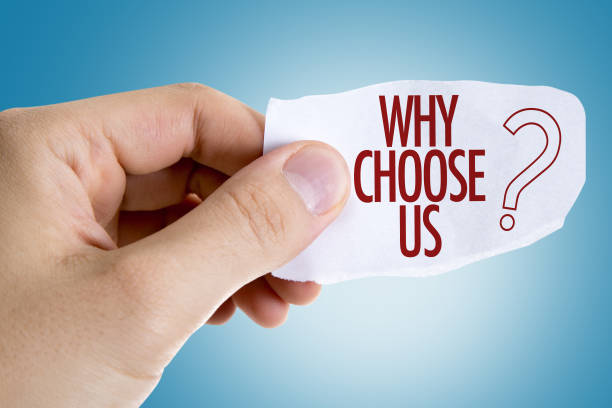
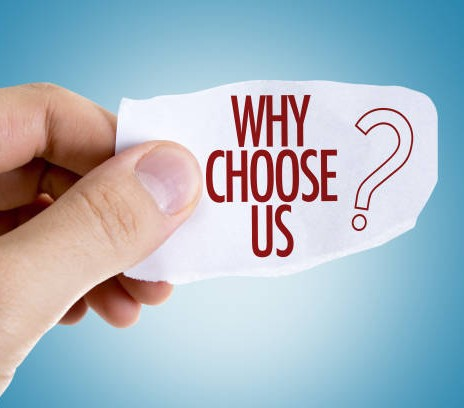
update file

diff --git a/src/pages-Services/AI-Development.tsx b/src/pages-Services/AI-Development.tsx
@@ -133,12 +133,12 @@ const AIDevelopment: React.FC = () => {
 										<span className="text-slate-900">AI Development</span>
 									</h2>
 								</div>
-								<p className="text-sm md:text-[15px] text-slate-500 max-w-xl font-normal leading-relaxed">
+								<p className="text-base md:text-[17px] text-slate-700 max-w-xl font-medium leading-relaxed">
 									Unlock the full potential of artificial intelligence to transform your business operations, enhance customer experiences, and drive innovation across all industries.
 								</p>
 							</div>
 
-							<div className="space-y-4 text-slate-600 text-[15px] leading-relaxed text-left border-l-2 border-slate-100 pl-5">
+							<div className="space-y-4 text-slate-800 text-base md:text-[17px] leading-relaxed text-left border-l-4 border-[#B6FF00] pl-6 font-medium">
 								<p>
 									Our AI specialists design and deploy custom machine learning models, intelligent automation systems, and data-driven solutions that seamlessly integrate with your existing infrastructure and workflows.
 								</p>
@@ -163,27 +163,41 @@ const AIDevelopment: React.FC = () => {
 						</div>
 
 						{/* Right: AI Image */}
-						<div className={`relative flex justify-center lg:justify-end order-2 lg:order-2 ${isVisible ? 'slide-right' : 'opacity-0'} w-full overflow-visible`}>
-							<img
-								src="/image/pages_img/Power-AI-Development.png"
-								alt="The Power of AI Development"
-								className="w-[120%] max-w-[120%] h-auto object-contain scale-125 animate-float"
-							/>
+						<div className={`relative order-2 lg:order-2 ${isVisible ? 'slide-right' : 'opacity-0'} w-full`}>
+							<div className="relative w-full md:w-[90%] ml-auto overflow-hidden rounded-2xl border-t-[6px] border-[#B6FF00] shadow-[0_20px_50px_rgba(0,0,0,0.15)] group/cover bg-transparent">
+								<img
+									src="/image/pages_img/Power-AI-Development.png"
+									alt="The Power of AI Development"
+									className="w-full h-[350px] md:h-[500px] object-cover transition-transform duration-700 group-hover/cover:scale-105"
+								/>
+								{/* Premium gradient overlay for depth */}
+								<div className="absolute inset-0 bg-gradient-to-t from-black/30 via-transparent to-transparent opacity-80" />
+								
+								{/* Decorative corner accent */}
+								<div className="absolute bottom-4 right-4 w-12 h-12 border-b-4 border-r-4 border-[#B6FF00]/60 rounded-br-lg" />
+							</div>
 						</div>
 					</div>
 				</div>
 			</section>
 
 			{/* ─── Services Section ─── */}
-			<section className="py-10 sm:py-14 ai-section">
-				<div className="max-w-7xl mx-auto container-padding">
+			<section className="py-10 sm:py-14 bg-[#01010c] relative overflow-hidden">
+				{/* High-Tech Background Layers */}
+				<div className="absolute inset-0 bg-[linear-gradient(to_right,#ffffff04_1px,transparent_1px),linear-gradient(to_bottom,#ffffff04_1px,transparent_1px)] bg-[size:40px_40px]" />
+				<div className="absolute top-0 left-0 w-full h-[1px] bg-gradient-to-r from-transparent via-blue-500/15 to-transparent" />
+				{/* Ambient light */}
+				<div className="absolute -top-40 -left-40 w-96 h-96 bg-blue-600/8 rounded-full blur-[140px]" />
+				<div className="absolute bottom-[-20%] right-[-10%] w-[500px] h-[500px] bg-purple-600/8 rounded-full blur-[160px]" />
+
+				<div className="max-w-7xl mx-auto container-padding relative z-10">
 					<div className={`text-center space-y-3 sm:space-y-4 mb-10 sm:mb-12 md:mb-16 ${isVisible ? 'fade-in' : 'opacity-0'}`}>
 						<div className="flex flex-col items-center gap-3 sm:gap-4">
 							<h2 className="text-xl sm:text-2xl md:text-3xl lg:text-4xl font-bold tracking-tight text-white leading-[1.2]">
 								AI Solutions for <span className="text-white">Industry</span>
 							</h2>
 						</div>
-						<p className="text-xs sm:text-sm md:text-[15px] text-slate-300 max-w-2xl mx-auto font-normal leading-relaxed">
+						<p className="text-sm sm:text-base md:text-lg text-slate-200 max-w-2xl mx-auto font-medium leading-relaxed">
 							Intelligent AI technologies that drive innovation and efficiency across your business.
 						</p>
 					</div>
@@ -191,16 +205,16 @@ const AIDevelopment: React.FC = () => {
 						{aiServices.map((service, index) => (
 							<div
 								key={service.id}
-								className={`modern-card p-6 sm:p-8 flex flex-col gap-3 sm:gap-4 items-center min-h-[200px] sm:min-h-[220px] hover:scale-[1.025] hover:-translate-y-0.5 transition-all duration-300 ${isVisible ? 'scale-in' : 'opacity-0'}`}
+								className={`p-6 sm:p-8 flex flex-col gap-3 sm:gap-4 items-center min-h-[200px] sm:min-h-[220px] rounded-none bg-white/[0.03] border border-white/10 hover:border-[#B6FF00]/50 hover:bg-white/[0.05] transition-all duration-300 hover:-translate-y-1 hover:shadow-[0_8px_30px_rgba(182,255,0,0.15)] ${isVisible ? 'scale-in' : 'opacity-0'}`}
 								style={{ animationDelay: `${index * 0.08}s` }}
 							>
 								<div className={`flex-shrink-0 w-10 h-10 sm:w-12 sm:h-12 bg-gradient-to-br ${service.color} rounded-lg sm:rounded-none flex items-center justify-center mb-2 mx-auto text-black shadow-[0_4px_16px_rgba(182,255,0,0.25)]`}>
 									{service.icon}
 								</div>
-								<h3 className="font-bold text-xs sm:text-sm text-white mb-1 text-center w-full tracking-wide">
+								<h3 className="font-bold text-sm sm:text-base text-white mb-2 text-center w-full tracking-wide">
 									{service.title}
 								</h3>
-								<p className="text-[10px] sm:text-xs font-normal text-slate-400 text-center leading-relaxed">
+								<p className="text-xs sm:text-sm font-medium text-slate-200 text-center leading-relaxed">
 									{service.description}
 								</p>
 							</div>
@@ -220,7 +234,7 @@ const AIDevelopment: React.FC = () => {
 								AI Development <span className="text-slate-900">Benefits</span>
 							</h2>
 						</div>
-						<p className="text-xs sm:text-sm md:text-[15px] text-slate-500 max-w-2xl mx-auto font-normal leading-relaxed">
+						<p className="text-sm sm:text-base md:text-lg text-slate-600 max-w-2xl mx-auto font-medium leading-relaxed">
 							Deliver better business outcomes and operational excellence through AI innovation.
 						</p>
 					</div>
@@ -263,9 +277,9 @@ const AIDevelopment: React.FC = () => {
 								<div key={idx} className="flex flex-col items-center">
 									{/* Label Above (Desktop) */}
 									<div className={`hidden lg:flex flex-col items-center h-[180px] justify-end mb-10 transition-all duration-700 ${isVisible ? 'fade-in' : 'opacity-0'} ${item.textSide === 'above' ? 'opacity-100' : 'opacity-0 invisible'}`}>
-										<div className="text-center max-w-[200px]">
-											<h3 className="font-bold text-slate-900 text-[15px] mb-1.5 tracking-tight">{item.title}</h3>
-											<p className="text-[11px] text-slate-500 font-normal leading-relaxed">{item.desc}</p>
+										<div className="text-center max-w-[220px]">
+											<h3 className="font-bold text-slate-900 text-base mb-2 tracking-tight">{item.title}</h3>
+											<p className="text-xs sm:text-sm text-slate-600 font-medium leading-relaxed">{item.desc}</p>
 										</div>
 										<div className="w-[1px] h-10 bg-slate-200 mt-4" />
 										<div className="w-1.5 h-1.5 rounded-full mt-[-4px]" style={{ backgroundColor: item.color }} />
@@ -292,9 +306,9 @@ const AIDevelopment: React.FC = () => {
 									<div className={`hidden lg:flex flex-col items-center h-[180px] mt-10 transition-all duration-700 ${isVisible ? 'fade-in' : 'opacity-0'} ${item.textSide === 'below' ? 'opacity-100' : 'opacity-0 invisible'}`}>
 										<div className="w-1.5 h-1.5 rounded-full mb-[-4px]" style={{ backgroundColor: item.color }} />
 										<div className="w-[1px] h-10 bg-slate-200 mb-4" />
-										<div className="text-center max-w-[200px]">
-											<h3 className="font-bold text-slate-900 text-[15px] mb-1.5 tracking-tight">{item.title}</h3>
-											<p className="text-[11px] text-slate-500 font-normal leading-relaxed">{item.desc}</p>
+										<div className="text-center max-w-[220px]">
+											<h3 className="font-bold text-slate-900 text-base mb-2 tracking-tight">{item.title}</h3>
+											<p className="text-xs sm:text-sm text-slate-600 font-medium leading-relaxed">{item.desc}</p>
 										</div>
 									</div>
 
@@ -330,7 +344,7 @@ const AIDevelopment: React.FC = () => {
 								AI Implementation <span className="text-white">Process</span>
 							</h2>
 						</div>
-						<p className="text-xs sm:text-sm md:text-[15px] text-white max-w-2xl mx-auto font-normal leading-relaxed">
+						<p className="text-sm sm:text-base md:text-lg text-slate-200 max-w-2xl mx-auto font-medium leading-relaxed">
 							Proven methodology for deploying secure, scalable, and intelligent AI solutions.
 						</p>
 					</div>
@@ -362,8 +376,8 @@ const AIDevelopment: React.FC = () => {
 										<div className="w-5 sm:w-8 h-[1px]" style={{ backgroundColor: `${step.color}35` }} />
 									</div>
 
-									<h4 className="text-white font-semibold text-sm sm:text-[15px] mb-2 text-center tracking-tight transition-colors duration-300">{step.title}</h4>
-									<p className="text-white text-[10px] sm:text-[11px] leading-relaxed text-center max-w-[200px] font-normal">{step.desc}</p>
+									<h4 className="text-white font-bold text-base sm:text-lg mb-2 text-center tracking-tight transition-colors duration-300">{step.title}</h4>
+									<p className="text-slate-200 text-xs sm:text-sm leading-relaxed text-center max-w-[220px] font-medium">{step.desc}</p>
 
 									{/* Corner accents */}
 									<div className="absolute top-0 right-0 w-2 h-2 border-t border-r border-white/[0.06] opacity-0 group-hover:opacity-100 transition-opacity duration-300" />
@@ -387,7 +401,7 @@ const AIDevelopment: React.FC = () => {
 								Why Choose <span className="text-black">Velnix Solutions?</span>
 							</h2>
 						</div>
-						<p className="text-xs sm:text-sm md:text-[15px] text-black max-w-2xl mx-auto font-normal leading-relaxed">
+						<p className="text-sm sm:text-base md:text-lg text-slate-700 max-w-2xl mx-auto font-medium leading-relaxed">
 							Industry expertise with proven results across multiple sectors and use cases.
 						</p>
 					</div>
@@ -395,16 +409,17 @@ const AIDevelopment: React.FC = () => {
 					<div className="grid lg:grid-cols-2 gap-12 lg:gap-20 items-center">
 						{/* Left: Workspace Image */}
 						<div className={`relative ${isVisible ? 'slide-left' : 'opacity-0'}`}>
-							<div className="relative group">
-								{/* Refined ambient shadow — not a glowing blob, just a soft photographic shadow */}
-								<div className="absolute -inset-3 bg-gradient-to-br from-slate-200/60 to-slate-100/30 rounded-none blur-2xl opacity-80 group-hover:opacity-100 transition-opacity duration-500" />
-								<div className="relative overflow-hidden rounded-none shadow-[0_8px_40px_rgba(0,0,0,0.10)] border border-slate-100/80">
-									<img
-										src="/image/pages_img/WHY-CHOOSE-US.jpg"
-										alt="Why Choose Us"
-										className="w-full h-auto lg:h-[500px] object-cover transition-transform duration-700 group-hover:scale-[1.03]"
-									/>
-								</div>
+							<div className="relative w-full md:w-[95%] mr-auto overflow-hidden rounded-2xl border-t-[6px] border-[#B6FF00] shadow-[0_20px_50px_rgba(0,0,0,0.15)] group/cover bg-transparent">
+								<img
+									src="/image/pages_img/WHY-CHOOSE-US.jpg"
+									alt="Why Choose Us"
+									className="w-full h-[350px] lg:h-[500px] object-cover transition-transform duration-700 group-hover/cover:scale-105"
+								/>
+								{/* Premium gradient overlay for depth */}
+								<div className="absolute inset-0 bg-gradient-to-t from-black/30 via-transparent to-transparent opacity-80" />
+								
+								{/* Decorative corner accent */}
+								<div className="absolute bottom-4 left-4 w-12 h-12 border-b-4 border-l-4 border-[#B6FF00]/60 rounded-bl-lg" />
 							</div>
 						</div>
 
@@ -441,8 +456,8 @@ const AIDevelopment: React.FC = () => {
 										{item.num}
 									</div>
 									<div className="pt-0.5">
-										<h3 className="font-semibold text-black text-sm sm:text-[15px] mb-1.5 tracking-tight group-hover:text-black transition-colors duration-300">{item.title}</h3>
-										<p className="text-[12px] sm:text-sm text-black leading-relaxed font-normal">{item.desc}</p>
+										<h3 className="font-bold text-[#0a0435] text-base sm:text-lg mb-1.5 tracking-tight group-hover:text-black transition-colors duration-300">{item.title}</h3>
+										<p className="text-sm sm:text-base text-slate-700 leading-relaxed font-medium">{item.desc}</p>
 									</div>
 								</div>
 							))}
@@ -468,7 +483,7 @@ const AIDevelopment: React.FC = () => {
 								Frequently Asked <span className="text-black">Questions</span>
 							</h2>
 						</div>
-						<p className="text-xs sm:text-sm md:text-[15px] text-slate-500 max-w-2xl mx-auto font-normal leading-relaxed">
+						<p className="text-sm sm:text-base md:text-lg text-slate-600 max-w-2xl mx-auto font-medium leading-relaxed">
 							Common questions about AI development and our services.
 						</p>
 					</div>
@@ -476,27 +491,23 @@ const AIDevelopment: React.FC = () => {
 						{faqData.map((faq, index) => (
 							<div
 								key={index}
-								className="border border-slate-200 overflow-hidden bg-white transition-all duration-300 hover:border-black/25 hover:shadow-[0_4px_24px_rgba(0,0,0,0.06)] group"
+								className={`border border-slate-200 overflow-hidden bg-white transition-all duration-300 hover:border-[#B6FF00]/50 hover:shadow-[0_4px_20px_rgba(182,255,0,0.2)] group ${openIndex === index ? 'shadow-lg border-[#B6FF00]/50' : ''}`}
 								style={openIndex === index ? {
-									borderColor: 'rgba(0, 0, 0, 0.35)',
-									boxShadow: '0 4px 24px rgba(0, 0, 0, 0.08)',
+									boxShadow: '0 4px 20px rgba(182, 255, 0, 0.2), 0 0 15px rgba(182, 255, 0, 0.15)'
 								} : {}}
 							>
 								<button
 									onClick={() => toggleFAQ(index)}
-									className="w-full h-auto p-4 sm:p-5 text-left transition-all duration-300"
-									style={openIndex === index ? {
-										background: 'linear-gradient(135deg, rgba(0, 0, 0, 0.04) 0%, rgba(0, 0, 0, 0.02) 100%)'
-									} : {}}
+									className={`w-full h-auto p-4 sm:p-5 text-left transition-all duration-300 ${openIndex === index ? 'bg-gradient-to-r from-[#B6FF00]/15 via-[#B6FF00]/10 to-[#B6FF00]/5' : 'hover:bg-[#B6FF00]/5'}`}
 								>
 									<div className="flex items-center justify-between w-full">
-										<h3 className={`text-sm sm:text-[15px] font-semibold pr-3 transition-colors duration-300 group-hover:text-black ${openIndex === index ? 'text-black' : 'text-slate-900'}`}>
+										<h3 className={`text-sm sm:text-[15px] font-semibold pr-3 transition-colors duration-300 group-hover:text-[#B6FF00] ${openIndex === index ? 'text-[#B6FF00]' : 'text-slate-900'}`}>
 											{faq.question}
 										</h3>
 										{openIndex === index ? (
-											<Minus className="h-4 w-4 sm:h-5 sm:w-5 flex-shrink-0 text-black" />
+											<Minus className="h-4 w-4 sm:h-5 sm:w-5 flex-shrink-0" style={{ color: '#B6FF00' }} />
 										) : (
-											<Plus className="h-4 w-4 sm:h-5 sm:w-5 text-slate-400 flex-shrink-0 transition-colors duration-300 group-hover:text-black" />
+											<Plus className="h-4 w-4 sm:h-5 sm:w-5 text-slate-400 flex-shrink-0 transition-colors duration-300 group-hover:text-[#B6FF00]" />
 										)}
 									</div>
 								</button>

diff --git a/src/components/AIOnboardingProcess.tsx b/src/components/AIOnboardingProcess.tsx
@@ -50,9 +50,12 @@ const AIOnboardingProcess: React.FC<AIOnboardingProcessProps> = ({ serviceName, 
 
   return (
     <section className="bg-[#01010c] relative overflow-hidden py-12 sm:py-16">
-      <div className="absolute inset-0 bg-[linear-gradient(to_right,#ffffff05_1px,transparent_1px),linear-gradient(to_bottom,#ffffff05_1px,transparent_1px)] bg-[size:40px_40px]"></div>
-      <div className="absolute -top-40 -right-40 w-96 h-96 bg-blue-600/10 rounded-full blur-[120px] animate-pulse"></div>
-      <div className="absolute bottom-[-20%] left-[-10%] w-[500px] h-[500px] bg-purple-600/10 rounded-full blur-[140px]"></div>
+      {/* High-Tech Background Layers */}
+      <div className="absolute inset-0 bg-[linear-gradient(to_right,#ffffff04_1px,transparent_1px),linear-gradient(to_bottom,#ffffff04_1px,transparent_1px)] bg-[size:40px_40px]" />
+      <div className="absolute top-0 left-0 w-full h-[1px] bg-gradient-to-r from-transparent via-blue-500/15 to-transparent" />
+      {/* Ambient light */}
+      <div className="absolute -top-40 -left-40 w-96 h-96 bg-blue-600/8 rounded-full blur-[140px]" />
+      <div className="absolute bottom-[-20%] right-[-10%] w-[500px] h-[500px] bg-purple-600/8 rounded-full blur-[160px]" />
       <div className="max-w-7xl mx-auto container-padding relative z-10">
         <div className={`text-center space-y-4 mb-16 ${isVisible ? 'fade-in' : 'opacity-0'}`}>
           <h2 className="text-2xl sm:text-3xl lg:text-4xl font-black text-white tracking-tight leading-tight">